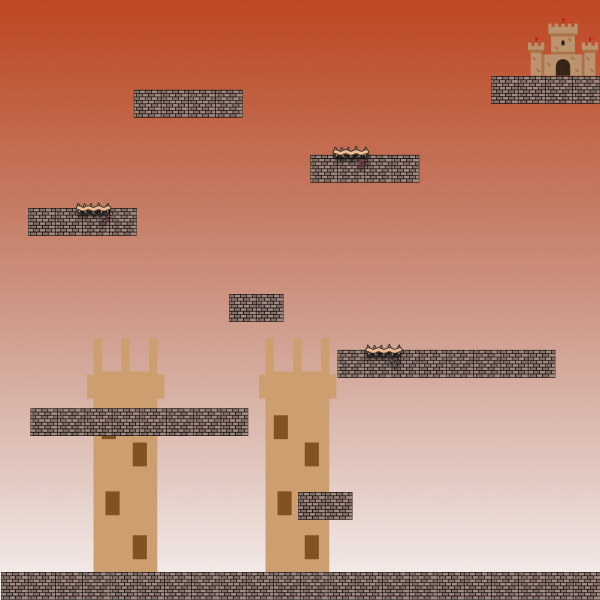
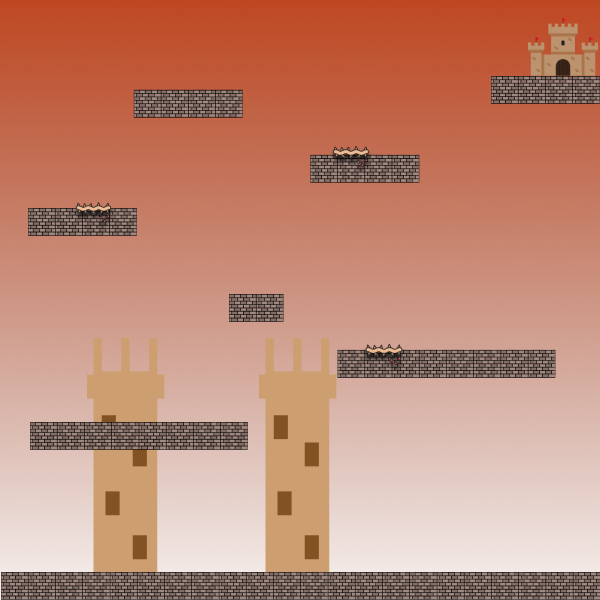
kode baru

Changed region(s): [[0.03, 0.66, 0.42, 0.75], [0.48, 0.81, 0.6, 0.87]]

diff --git a/main.py b/main.py
@@ -293,9 +293,9 @@ def draw_display():
             player.jump_left = False
     for obstacle in obs_lvl1:
         obstacle.draw(win)
-        if player.hitbox.colliderect(obstacle.hitbox):
-            player.x = 10
-            player.y = 515
+        # if player.hitbox.colliderect(obstacle.hitbox):
+        #     player.x = 10
+        #     player.y = 515
     if not on_ground:
         player.y += player.vely
         player.vely += gravity
@@ -326,15 +326,15 @@ road8 = Road(424, 94, 143, 2)
 road_lvl1 = [road1, road2, road3 , road4, road5,
             road6, road7, road8]
 
-road01 = Road(295, 492, 59, 2)
-road02 = Road(30, 409, 220, 2)
+# road01 = Road(295, 492, 59, 2)
+road02 = Road(30, 420, 220, 2)
 road03 = Road(335, 350, 220, 2)
 road04 = Road(226, 293, 59, 2)
 road05 = Road(28, 208, 112, 2)
 road06 = Road(132, 88, 112, 2)
 road07 = Road(310, 153, 112, 2)
 road08 = Road(488, 76, 112, 2)
-road_lvl2 = [road01, road02, road03, road04, road05,
+road_lvl2 = [ road02, road03, road04, road05,
              road06, road07, road08]
 
 road001 = Road(516, 470, 30, 2)
@@ -362,15 +362,15 @@ grounds_lvl1 = [ground1, ground2, ground3, ground4, ground5,
                 ground6, ground7, ground8]
 
 
-ground01 = Ground(295, 492, 59, 32)
-ground02 = Ground(30, 416, 220, 35)
+# ground01 = Ground(295, 492, 59, 32)
+ground02 = Ground(30, 425, 220, 27)
 ground03 = Ground(335, 350, 220, 32)
 ground04 = Ground(226, 290, 59, 32)
 ground05 = Ground(28, 208, 112, 32)
 ground06 = Ground(132, 88, 112, 32)
 ground07 = Ground(310, 162, 112, 29)
 ground08 = Ground(488, 76, 112, 32)
-grounds_lvl2 = [ground01, ground02, ground03, ground04, ground05,
+grounds_lvl2 = [ground02, ground03, ground04, ground05,
                 ground06, ground07, ground08]
 
 ground001 = Ground(516, 470, 30, 30)
